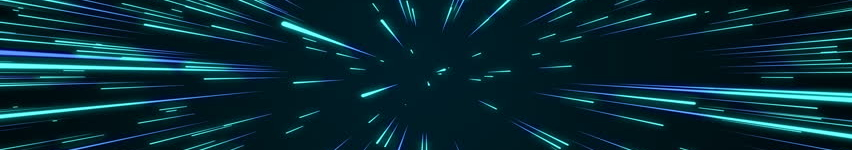
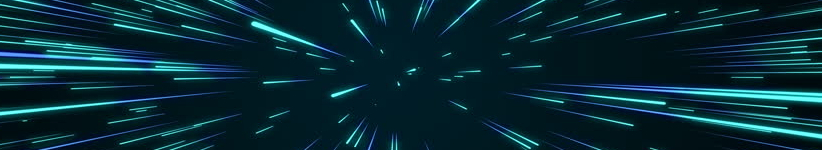
Added User Stats box to the homepage and fixed background

diff --git a/client/src/pages/Home/Home.jsx b/client/src/pages/Home/Home.jsx
@@ -1,13 +1,43 @@
-import React from "react";
+import React, { useState } from "react";
 import { Button, Col, Container, Row } from "react-bootstrap";
 import { useHistory } from "react-router-dom";
 
 import spaceship from "./images/spaceship.png";
 import ufo from "./images/ufo.png";
 import lightspeed from "./images/lightspeed.jpg";
+import speedometer from "./images/speedometer.png";
 
 const Home = () => {
   const history = useHistory();
+  const [user, setUser] = useState(null);
+
+  fetch("/api/current-login", {
+    credentials: "include",
+  })
+    .then((res) => res.json())
+    .then((data) => {
+      const new_curr_user = data === null ? data : data["username"];
+      setUser(new_curr_user);
+    });
+
+  const view_stats =
+    user === null ? (
+      <p className="text">
+        Log in or make an account to track your typing stats!
+      </p>
+    ) : (
+      <span>
+        <p className="text">
+          Check out your WPM and Accuracy to see how you've improved over time!
+        </p>
+        <Button
+          onClick={() => history.push(`/user/` + user)}
+          variant="outline-primary"
+        >
+          View Your Stats
+        </Button>
+      </span>
+    );
 
   return (
     <div>
@@ -29,7 +59,7 @@ const Home = () => {
 
       <Container className="mt-4">
         <h5 className="text">
-          <b>Improve Your Code Typing Skills:</b>
+          <b>Improve Your Code Typing Skills</b>
         </h5>
 
         <Row className="justify-content-evenly">
@@ -78,6 +108,40 @@ const Home = () => {
 
                 <Col md="6">
                   <img src={ufo} alt="" />
+                </Col>
+              </Row>
+            </Container>
+          </Col>
+        </Row>
+
+        <h5 className="text mt-4">
+          <b>Your Progress and Others'</b>
+        </h5>
+
+        <Row className="justify-content-evenly">
+          <Col md="6" className="p-3" fluid="sm">
+            <Container className="shadow p-3 box">
+              <h3 className="text">
+                <b>Leaderboard</b>
+              </h3>
+
+              <p className="text">WIP</p>
+            </Container>
+          </Col>
+
+          <Col md="6" className="p-3" fluid="sm">
+            <Container className="shadow p-3 box">
+              <Row className="justify-content-between">
+                <Col md="7">
+                  <h3 className="text">
+                    <b>User Stats</b>
+                  </h3>
+
+                  {view_stats}
+                </Col>
+
+                <Col md="5">
+                  <img src={speedometer} alt="" />
                 </Col>
               </Row>
             </Container>
